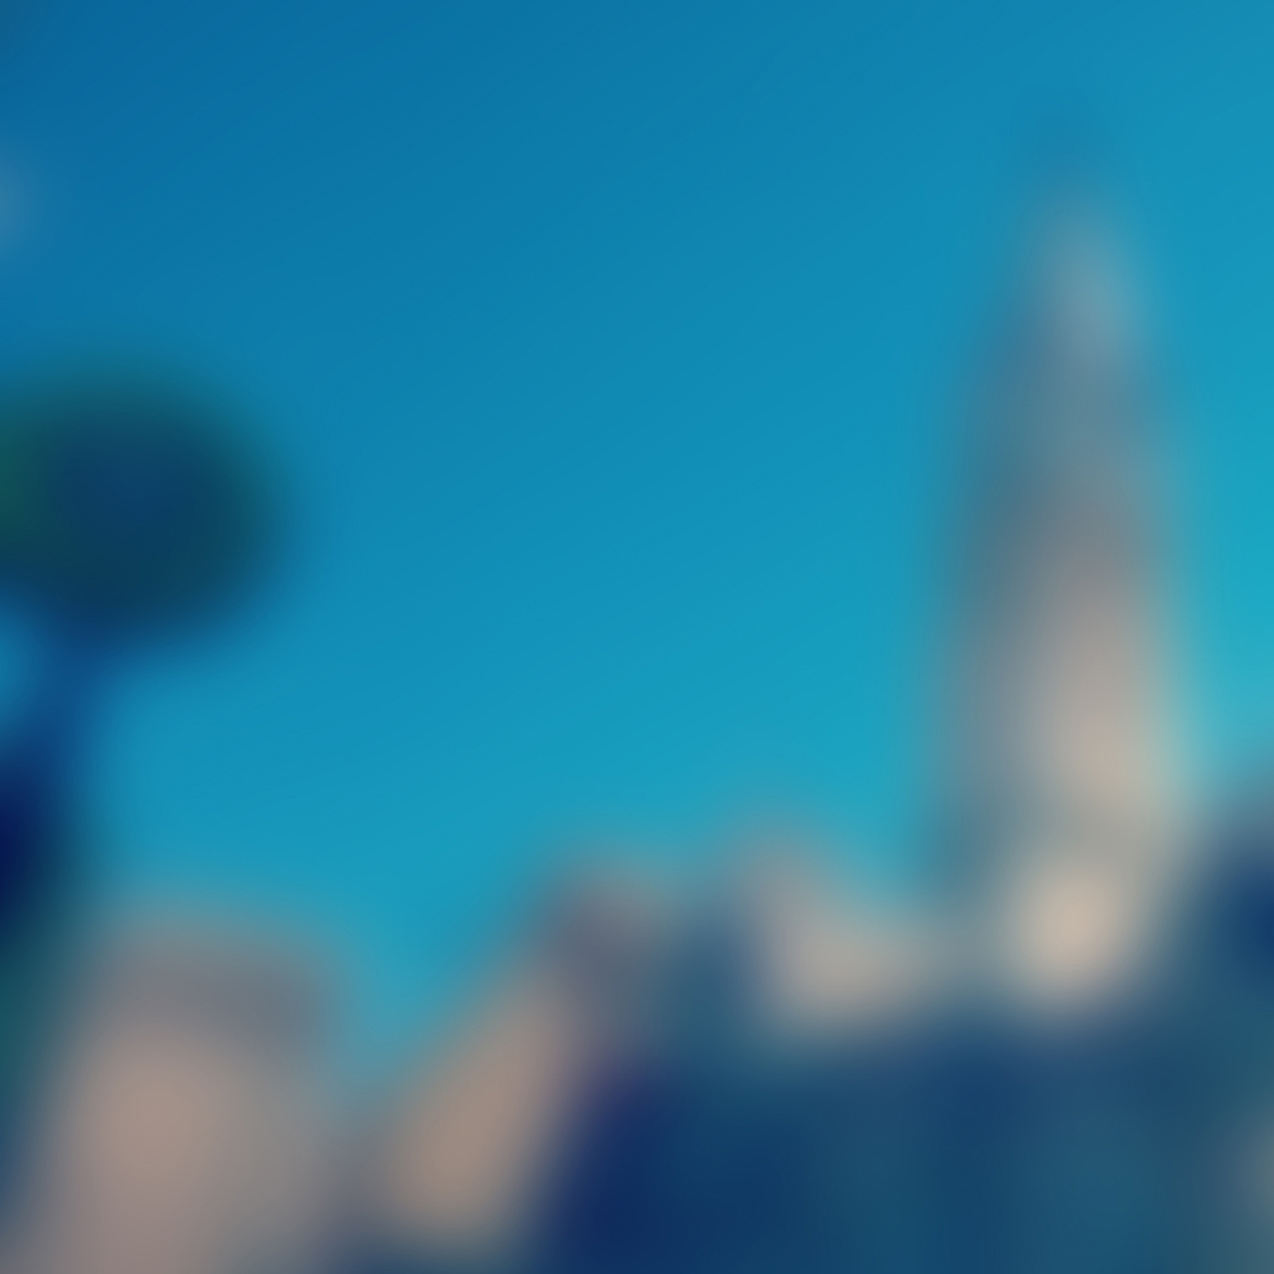
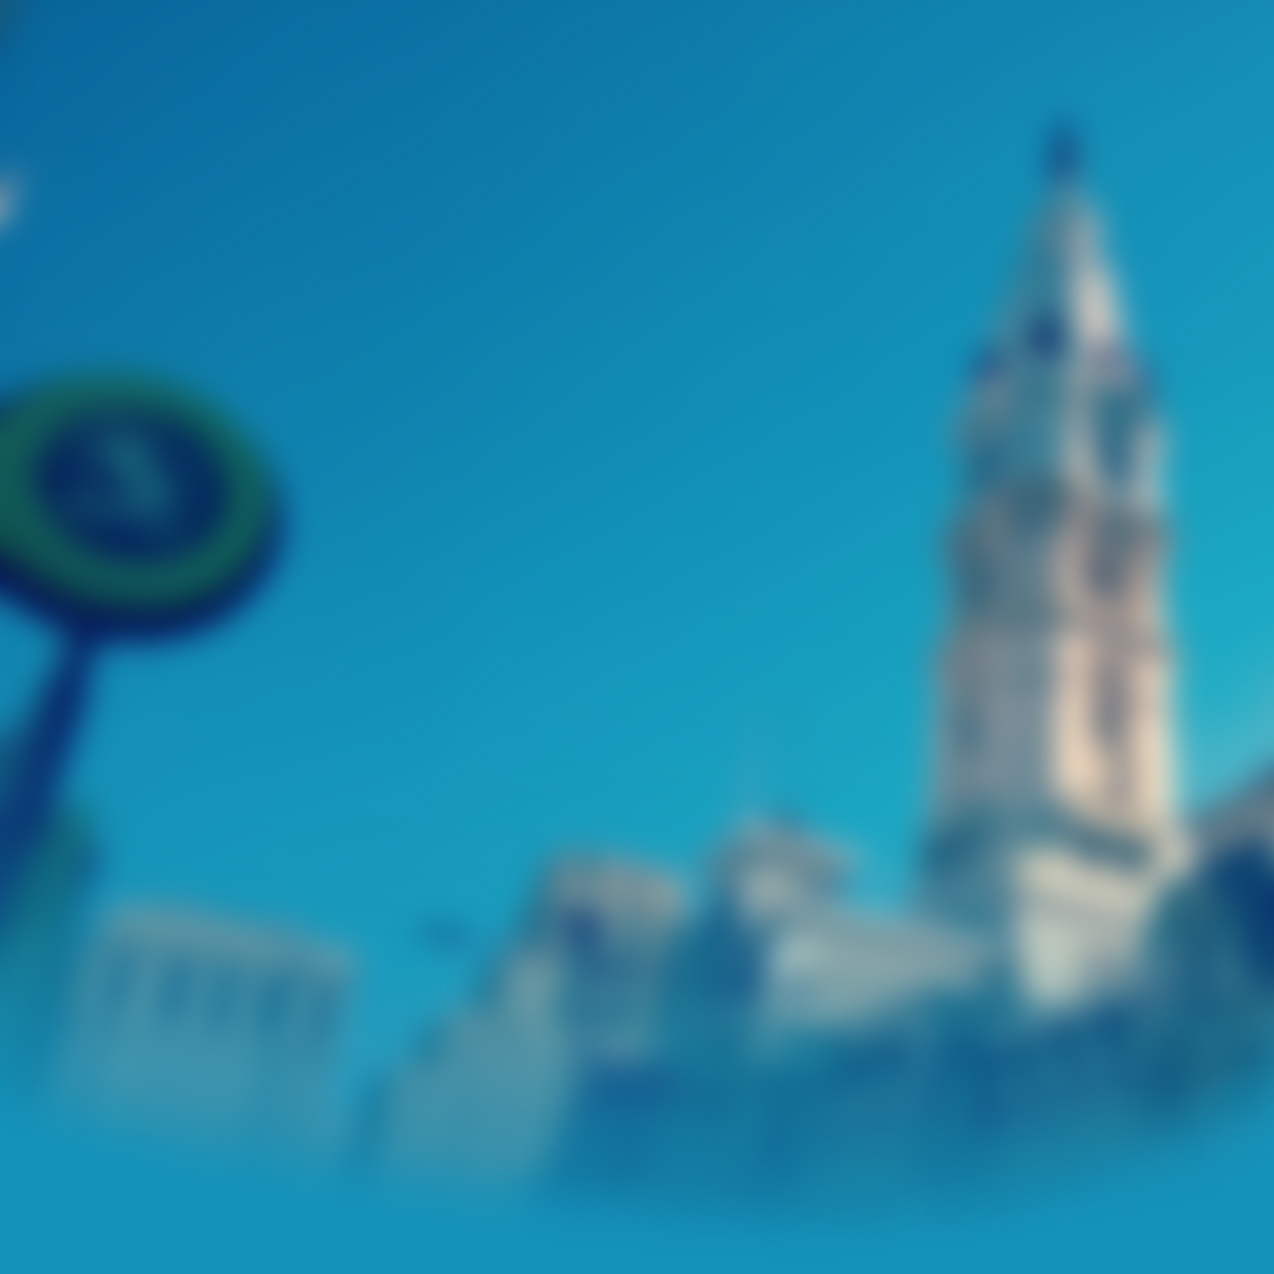
Some fixes
- Bg has less blur
- Fixed footer scaling (div problem)
- Changed book view

Changed region(s): [[0.0, 0.0918, 1.0, 1.0], [0.7653, 0.3061, 0.7959, 0.3367], [0.0, 0.1531, 0.0306, 0.1837]]

diff --git a/index.html b/index.html
@@ -22,7 +22,7 @@
 		<!-- Header -->
 			<header id="header">
 				<i class="image avatar"><img src="images/avatar.jpg" alt="" /></i>
-				<h1>John Brock Heller</h1>
+				<h1>John <strong>Brock</strong> Heller</h1>
 			</header>
 
 		<!-- Main -->
@@ -47,7 +47,7 @@
 							<h2><i class="fa fa-eye fa-fw"></i><br/>
 							Take a look at my resume!</h2>
 						</header>
-							<object data="resume.pdf" type="application/pdf" width="100%" height=945px>
+							<object data="resume.pdf" type="application/pdf" width="100%" height=100%>
 								<p>It appears you don't have a PDF plugin for this browser. That's no big deal. You can find the download link below.</p>
 							</object>
 						<ul class="actions">
@@ -61,45 +61,47 @@
 					<section id="books">
 						<header class="major">
 							<h2><i class="fa fa-bookmark-o fa-1x"></i><br/>
-							Looking for some book suggestions?</h2>
+							Interested in books?</h2>
 						</header>
 						<div class="row">
-							<article class="6u 12u$(xsmall) work-item">
+							<article class="4u 6u(xsmall) work-item">
 								<a href="http://amzn.to/214ITda" class="image fit thumb"><img src="images/thumbs/01.jpg" alt="" /></a>
 								<h3>Chasing the Scream:<br/> The First and Last Days of the War on Drugs</h3>
 								<p>Johann Hari</p>
 							</article>
-							<article class="6u$ 12u$(xsmall) work-item">
+							<article class="4u 6u$(xsmall) work-item">
 								<a href="http://amzn.to/1T3HjJ2" class="image fit thumb"><img src="images/thumbs/02.jpg" alt="" /></a>
 								<h3>The Man Who Mistook His Wife for a Hat:<br/> And Other Clinical Tales</h3>
 								<p>Oliver Sacks</p>
 							</article>
-							<article class="6u 12u$(xsmall) work-item">
+							<article class="4u$ 6u(xsmall) work-item">
 								<a href="http://amzn.to/1T3HhB2" class="image fit thumb"><img src="images/thumbs/03.jpg" alt="" /></a>
 								<h3>Why Do Men Have Nipples?<br/> Hundreds of Questions You'd Only Ask a Doctor After Your Third Martini</h3>
 								<p>Mark Leyner</p>
 							</article>
-							<article class="6u$ 12u$(xsmall) work-item">
+							<article class="4u 6u$(xsmall) work-item">
 								<a href="http://amzn.to/1n9h8mi" class="image fit thumb"><img src="images/thumbs/04.jpg" alt="" /></a>
 								<h3>Predictably Irrational:<br/> The Hidden Forces That Shape Our Decisions</h3>
 								<p>Dan Ariely</p>
 							</article>
-							<article class="6u 12u$(xsmall) work-item">
+							<article class="4u 6u(xsmall) work-item">
 								<a href="http://amzn.to/214Jb3u" class="image fit thumb"><img src="images/thumbs/05.jpg" alt="" /></a>
 								<h3>Andrew Carnegie</h3>
 								<p>David Nasaw</p>
 							</article>
-							<article class="6u$ 12u$(xsmall) work-item">
+							<article class="4u$ 6u$(xsmall) work-item">
 								<a href="http://amzn.to/1TglA0X" class="image fit thumb"><img src="images/thumbs/06.jpg" alt="" /></a>
 								<h3>Titan:<br/> The Life of John D. Rockefeller, Sr.</h3>
 								<p>Ron Chernow</p>
 							</article>
+						</div>
 						</div>
 						<!-- <ul class="actions">
 							<li><a href="#" class="button">View More</a></li>
 						</ul> -->
 					</section>
 				
+				<section>
 
 				<!-- Three
 				
@@ -459,10 +461,11 @@ print 'It took ' + i + ' iterations to sort the deck.';</code></pre>
 						</section>
 
 					</section>
-
-			</div> -->
+ -->
+			</div>
 
 		<!-- Footer -->
+		
 			<footer id="footer">
 				<ul class="icons">
 					<li><a href="http://www.twitter.com/brockheller" class="icon fa-twitter"><span class="label">Twitter</span></a></li>

diff --git a/assets/css/main.css b/assets/css/main.css
@@ -6,7 +6,7 @@
 	html5up.net | @n33co
 	Free for personal and commercial use under the CCA 3.0 license (html5up.net/license)
 */
-   
+
 /* Reset */
 
 	html, body, div, span, applet, object, iframe, h1, h2, h3, h4, h5, h6, p, blockquote, pre, a, abbr, acronym, address, big, cite, code, del, dfn, em, img, ins, kbd, q, s, samp, small, strike, strong, sub, sup, tt, var, b, u, i, center, dl, dt, dd, ol, ul, li, fieldset, form, label, legend, table, caption, tbody, tfoot, thead, tr, th, td, article, aside, canvas, details, embed, figure, figcaption, footer, header, hgroup, menu, nav, output, ruby, section, summary, time, mark, audio, video {
@@ -2009,7 +2009,7 @@
 		.image.thumb {
 			text-align: center;
 		}
-			
+
 			.image.thumb:after {
 				-moz-transition: opacity 0.2s ease-in-out;
 				-webkit-transition: opacity 0.2s ease-in-out;
@@ -2019,7 +2019,7 @@
 				border: solid 3px rgba(255, 255, 255, 0.5);
 				color: #fff;
 				font-family: FontAwesome;
-				content: "\f270";
+				content: '\f270';
 				display: inline-block;
 				font-size: 0.8em;
 				font-weight: 400;
@@ -2034,7 +2034,7 @@
 				top: 50%;
 				white-space: nowrap;
 			}
-			
+
 			.image.thumb:hover:after {
 				opacity: 1.0;
 			}
@@ -2464,12 +2464,12 @@
 /* Header */
 
 	#header {
-		background-color: #1f1815;
+		background-color: #1492B9;
 		background-attachment: scroll,								fixed;
 		background-image: url("images/overlay.png"), url("../../images/bg.jpg");
 		background-position: top left,							top left;
 		background-repeat: repeat,								no-repeat;
-		background-size: 100%, auto, 100%;
+		background-size: auto, auto 100%;
 		color: rgba(255, 255, 255, 0.5);
 		height: 100%;
 		left: 0;
